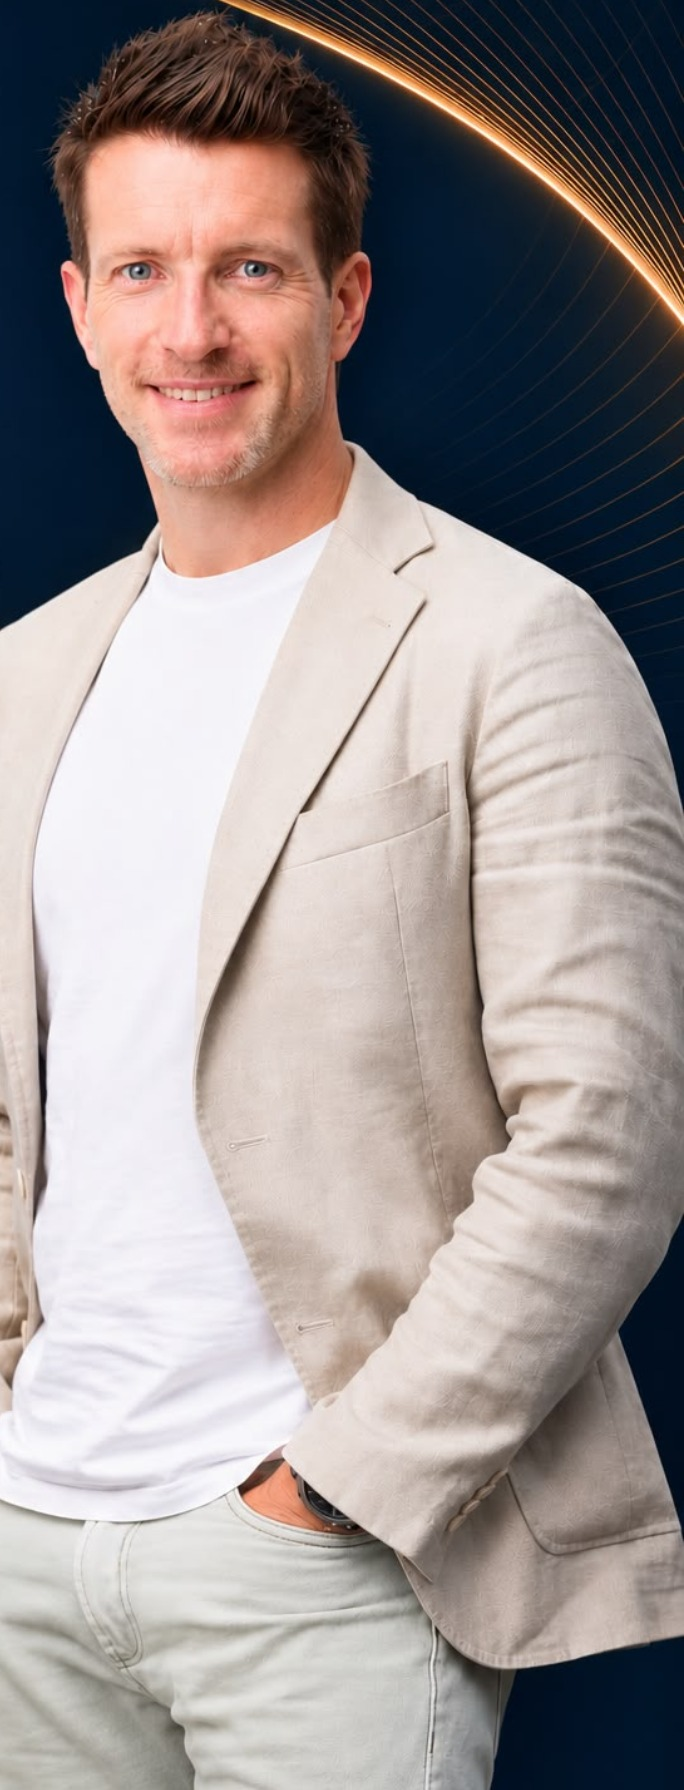
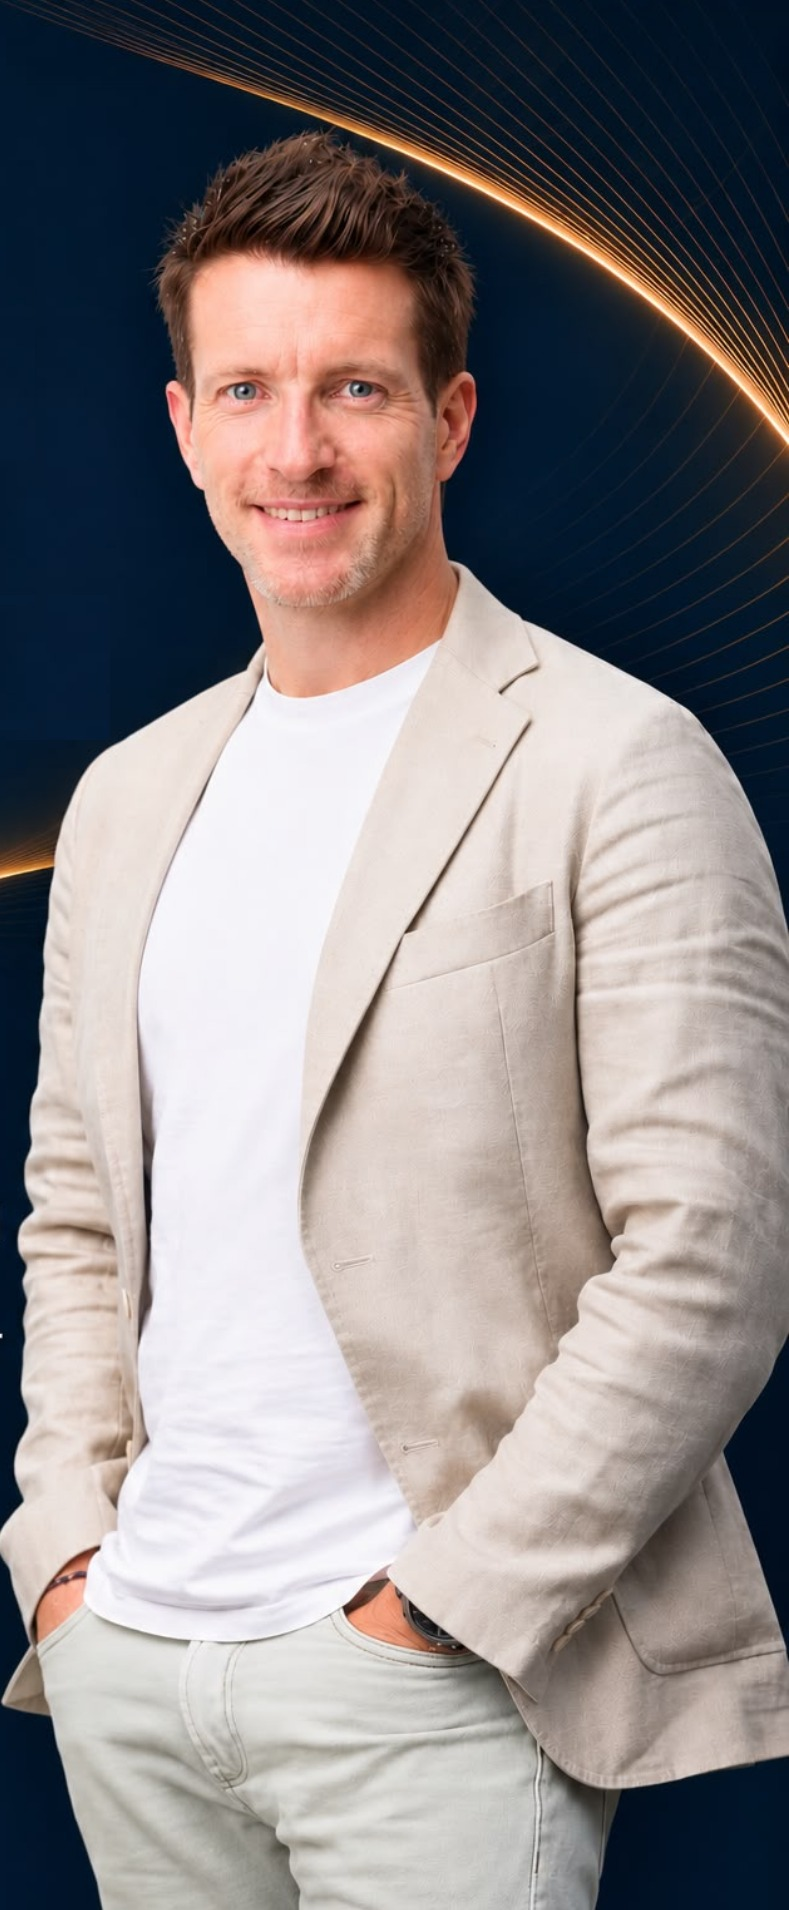
Recrop hero portrait so the head is no longer cut off
Claude-Session: https://claude.ai/code/session_016PjPrCAdCQkEJ3q7vCH1id

diff --git a/index.html b/index.html
@@ -65,7 +65,7 @@ header.scrolled{background:rgba(8,17,31,.92);backdrop-filter:blur(10px);border-c
 .btn:not(.solid):hover{background:rgba(201,147,90,.12)}
 .hero-portrait{align-self:center;justify-self:end;position:relative;width:min(400px,100%);aspect-ratio:3/4.4;margin-top:20px}
 .hero-portrait:before{content:"";position:absolute;inset:-16px 16px 16px -16px;border:1px solid var(--gold);border-radius:999px 999px 0 0;opacity:.7}
-.hero-portrait img{position:relative;width:100%;height:100%;object-fit:cover;object-position:50% 8%;border-radius:999px 999px 0 0;
+.hero-portrait img{position:relative;width:100%;height:100%;object-fit:cover;object-position:50% 0;border-radius:999px 999px 0 0;
   box-shadow:0 40px 80px rgba(0,0,0,.45)}
 .scroll-hint{position:absolute;bottom:30px;left:50%;transform:translateX(-50%);z-index:3;width:1px;height:54px;background:linear-gradient(var(--gold),transparent)}
 
